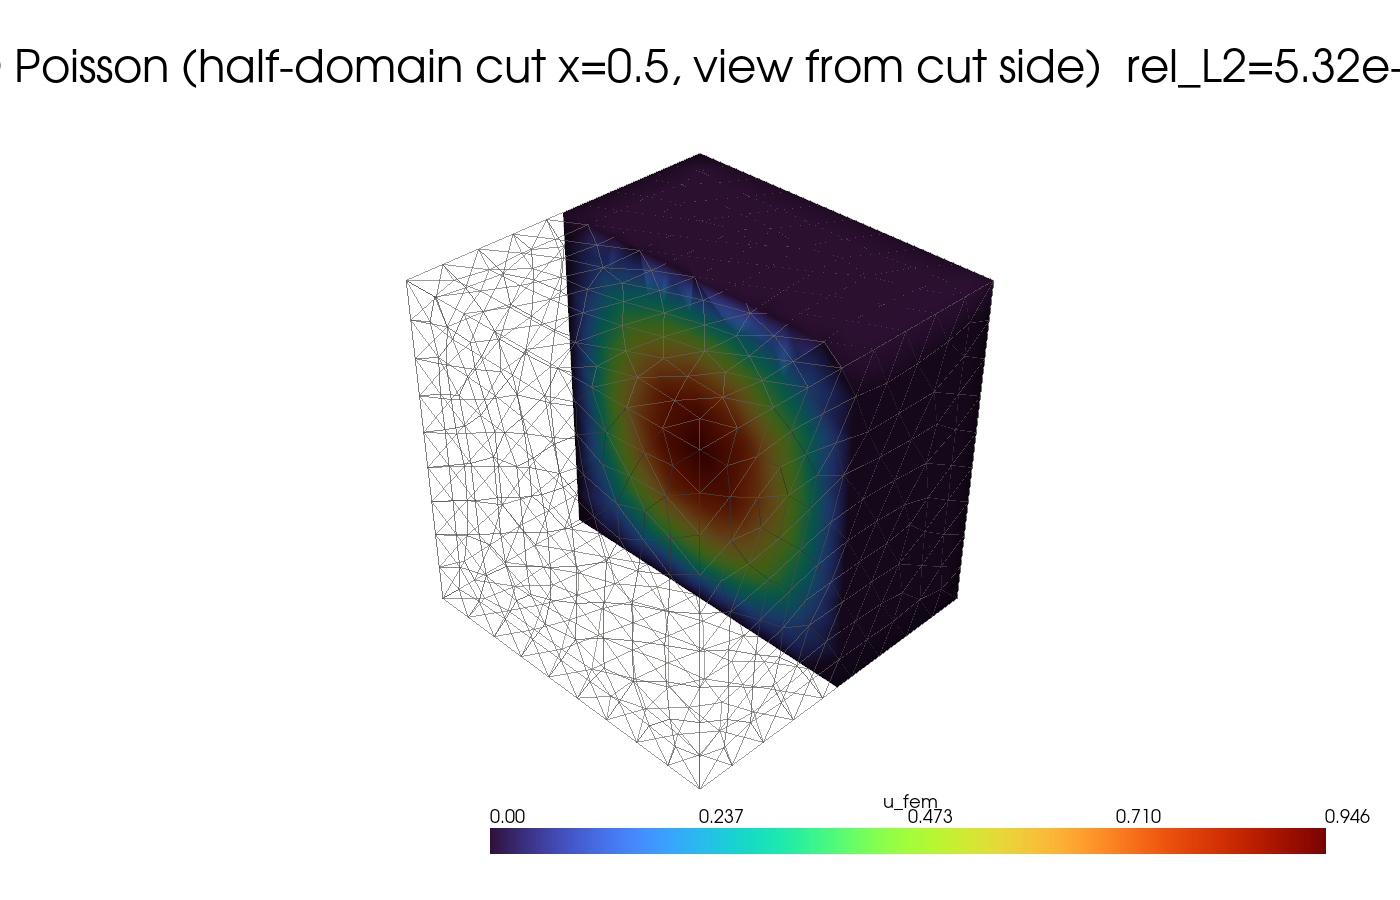
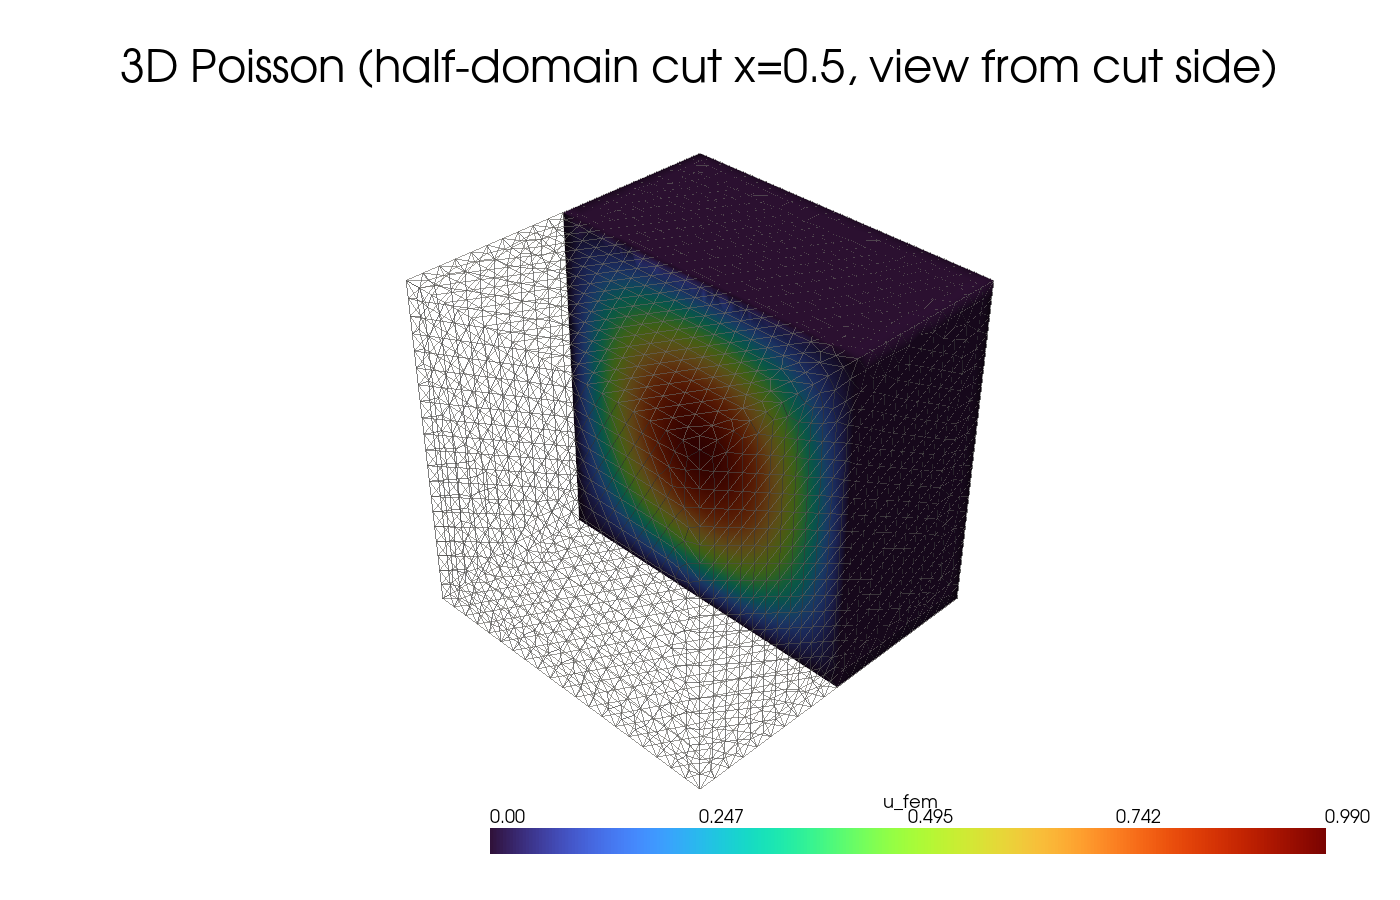
refactor(examples/poisson): adjust the poisson examples.

Changed region(s): [[0.2764, 0.2489, 0.7064, 0.8711], [0.0, 0.0311, 1.0, 0.0933], [0.7986, 0.9022, 0.8293, 0.9333]]

diff --git a/examples/poisson/poisson.py b/examples/poisson/poisson.py
@@ -2,45 +2,33 @@ import sys
 sys.path.append("../..")
 
 import torch
-import numpy as np
-from tqdm import tqdm
-from tensormesh import LaplaceElementAssembler, Mesh, Condenser
+from tensormesh import (LaplaceElementAssembler, Mesh,
+                        Condenser, NodeAssembler)
 from tensormesh.dataset import PoissonMultiFrequency
-from tensormesh.visualization import StreamPlotter
-from tensormesh import NodeAssembler
-import matplotlib.pyplot as plt
 
-if __name__ == "__main__":
-    torch.random.manual_seed(1)
-    #mesh      = Mesh.gen_circle(chara_length=0.015)
-    #mesh    = Mesh.gen_L(chara_length=0.02)
-    mesh    = Mesh.gen_rectangle(chara_length=0.02)
-    # mesh = Mesh.gen_rectangle(chara_length=0.02, order=2, element_type="tri")
-    
-    assembler = LaplaceElementAssembler.from_mesh(mesh)
-    equation  = PoissonMultiFrequency(K=16)
-    dirchlet_value = torch.zeros(mesh.boundary_mask.shape)
-    condenser = Condenser(mesh.boundary_mask, dirchlet_value)
-    f = equation.source_term(mesh.points,domain="rectangle")
-    K = assembler(mesh.points)
-    class FAssembler(NodeAssembler):
-        def forward(self, v, f):
-            return v * f
-    F_asm = FAssembler.from_mesh(mesh)
-    f = F_asm(mesh.points, point_data={"f":f})
-    K, f = condenser(K, f)
-    
-    u_analytical = equation.solution(mesh.points)
-    u = K.solve(f)
-    u = condenser.recover(u)
-    f = condenser.recover(f)
-    mesh.plot(
-        {
-            "f":f,
-            "u_fem":u,
-            "u_analytical":u_analytical
-        },
-        save_path="poisson.png"
-    )
+device = "cuda" if torch.cuda.is_available() else "cpu"
+mesh      = Mesh.gen_rectangle(chara_length=0.02).to(device=device)
+assembler = LaplaceElementAssembler.from_mesh(mesh)
+equation  = PoissonMultiFrequency(K=16)
+boundary_value = torch.zeros(mesh.boundary_mask.shape).to(device=device)
+condenser = Condenser(mesh.boundary_mask,
+                      boundary_value)
+
+f = equation.source_term(mesh.points, domain="rectangle")
+K = assembler(mesh.points)
+
+class FAssembler(NodeAssembler):
+    def forward(self, v, f):
+        return v * f
+
+F_asm = FAssembler.from_mesh(mesh)
+b     = F_asm(mesh.points, point_data={"f": f})
+
+K_, b_       = condenser(K, b)
+u            = condenser.recover(K_.solve(b_))
+u_analytical = equation.solution(mesh.points)
+
+mesh.plot({"f": f, "u_fem": u, "u_analytical": u_analytical},
+          save_path="poisson.png")
 
 

diff --git a/examples/poisson/poisson_3d.py b/examples/poisson/poisson_3d.py
@@ -28,9 +28,10 @@ def main():
     # NOTE: Mesh.gen_cube uses gmsh and may generate tetra/hex depending on settings.
     # We keep it as-is but enforce 3D Poisson correctness independent of element type.
     # Smaller => denser mesh (clearer visualization, slower mesh generation/solve)
-    chara_length = 0.12
+    device = "cuda" if torch.cuda.is_available() else "cpu"
+    chara_length = 0.05
     order = 1
-    mesh = Mesh.gen_cube(chara_length=chara_length, order=order).double()
+    mesh = Mesh.gen_cube(chara_length=chara_length, order=order).to(device=device).double()
 
     x = mesh.points  # [n_points, 3]
 
@@ -136,7 +137,7 @@ def main():
             smooth_shading=True,
         )
 
-        p3.add_title(f"3D Poisson (half-domain cut x=0.5, view from cut side)  rel_L2={rel_l2:.2e}")
+        p3.add_title(f"3D Poisson (half-domain cut x=0.5, view from cut side)")
         # View FROM the removed side (x > 0.5) looking towards the cut face
         p3.camera_position = [(3,3,3), (0.5, 0.5, 0.5), (0.0, 0.0, 1.0)]
         # p3.camera.zoom(1.2)

diff --git a/docs/source/getting_started/quickstart.rst b/docs/source/getting_started/quickstart.rst
@@ -72,6 +72,27 @@ analytical solution to ``poisson.png``:
    :align: center
    :width: 95%
 
+.. note::
+
+   **Running on GPU.** Add a single line after creating the mesh::
+
+      mesh = mesh.to("cuda")
+
+   Every tensor derived from ``mesh`` (assembled matrices, load vectors,
+   the condensed solve) then lives on the GPU automatically — including
+   ``f_vals`` here, since it is built from ``mesh.points``. Only tensors
+   you construct independently of the mesh need to be moved over
+   explicitly, e.g. ``my_tensor = my_tensor.to(mesh.device)``.
+
+.. note::
+
+   **Built-in assemblers.** The Laplace and source forms above are common
+   enough that TensorMesh ships ready-made versions
+   (:class:`~tensormesh.LaplaceElementAssembler`,
+   :func:`~tensormesh.func_node_assembler`, and others), so you usually
+   don't need to write them by hand. See :ref:`forms-builtins` for the
+   full catalogue.
+
 
 Step by step
 ------------

diff --git a/docs/source/example_gallery/poisson.rst b/docs/source/example_gallery/poisson.rst
@@ -50,11 +50,12 @@ in 25 lines:
                            Condenser, NodeAssembler)
    from tensormesh.dataset import PoissonMultiFrequency
 
-   mesh      = Mesh.gen_rectangle(chara_length=0.02)
-   assembler = LaplaceElementAssembler.from_mesh(mesh)
-   equation  = PoissonMultiFrequency(K=16)
-   condenser = Condenser(mesh.boundary_mask,
-                         torch.zeros(mesh.boundary_mask.shape))
+   device         = "cuda" if torch.cuda.is_available() else "cpu"
+   mesh           = Mesh.gen_rectangle(chara_length=0.02).to(device=device)
+   assembler      = LaplaceElementAssembler.from_mesh(mesh)
+   equation       = PoissonMultiFrequency(K=16)
+   boundary_value = torch.zeros(mesh.boundary_mask.shape).to(device=device)
+   condenser      = Condenser(mesh.boundary_mask, boundary_value)
 
    f = equation.source_term(mesh.points, domain="rectangle")
    K = assembler(mesh.points)
@@ -120,10 +121,10 @@ PNG for quick inspection.
    :align: center
 
    Output of ``poisson_3d.py``: half-domain cut at :math:`x=0.5`
-   showing the FEM solution on the unit cube. Reported relative
-   :math:`L^2` error against the analytical Fourier solution is
-   on the order of :math:`5\times10^{-3}` at
-   ``chara_length=0.05``.
+   showing the FEM solution on the unit cube. The reported
+   mass-weighted relative :math:`L^2` error against the analytical
+   Fourier solution is :math:`\mathrm{rel\_L2} = 1.059\times10^{-2}`
+   at ``chara_length=0.05``.
 
 
 h-adaptive refinement on the L-shape — ``poisson_h_adaptivity.py``

diff --git a/docs/source/index.rst b/docs/source/index.rst
@@ -26,8 +26,11 @@ Core Strengths
 --------------
 
 - **GPU-Native & Differentiable**: Built on PyTorch from the ground up.
+  Moving an entire FEM workflow to the GPU takes a single line of code —
+  every downstream assembly, solve, and gradient inherits the device
+  automatically, with no separate backend or data-marshalling step.
   Native autograd flows seamlessly through assembly and solve, enabling
-  end-to-end differentiable PDE pipelines with GPU acceleration.
+  end-to-end differentiable PDE pipelines.
 
 - **High-Performance Tensorized Assembly**: A fully tensorized Map-Reduce
   algorithm powered by `TensorGalerkin <https://arxiv.org/abs/2602.05052>`_,